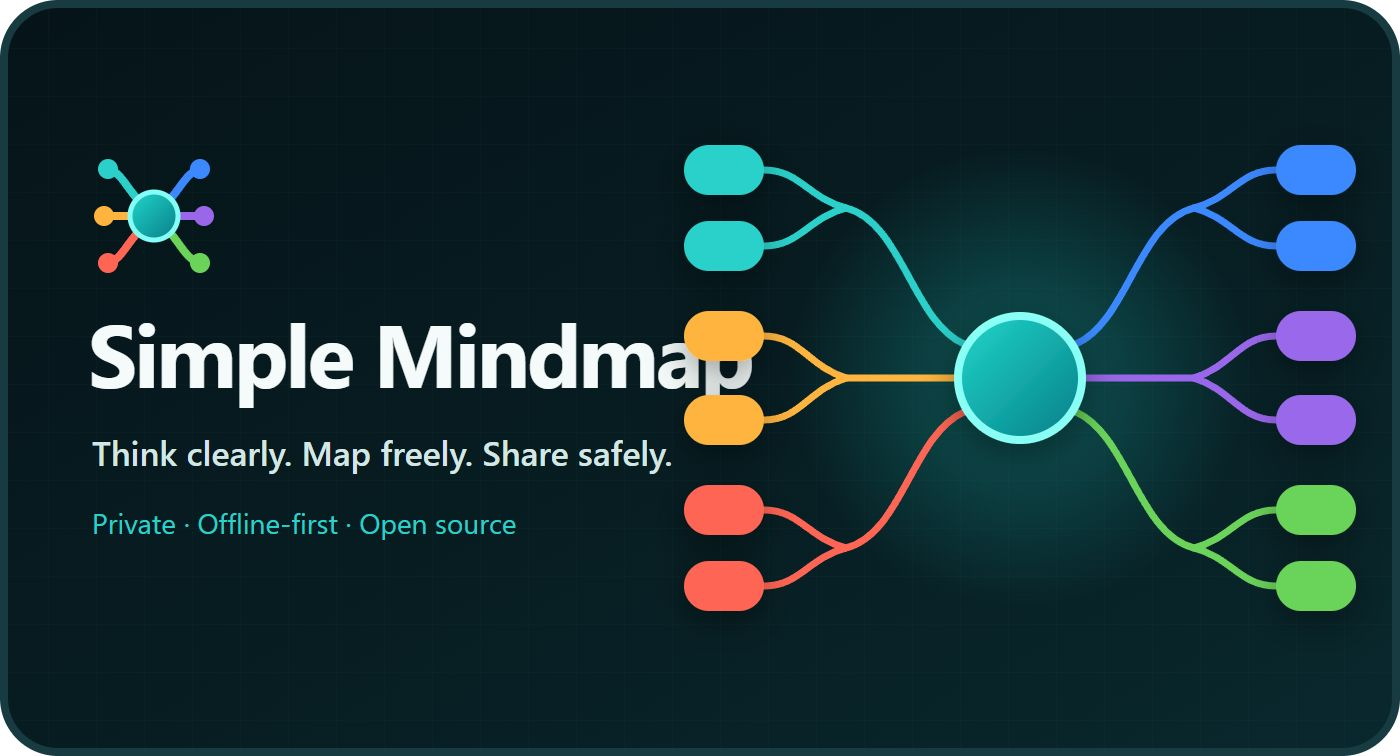
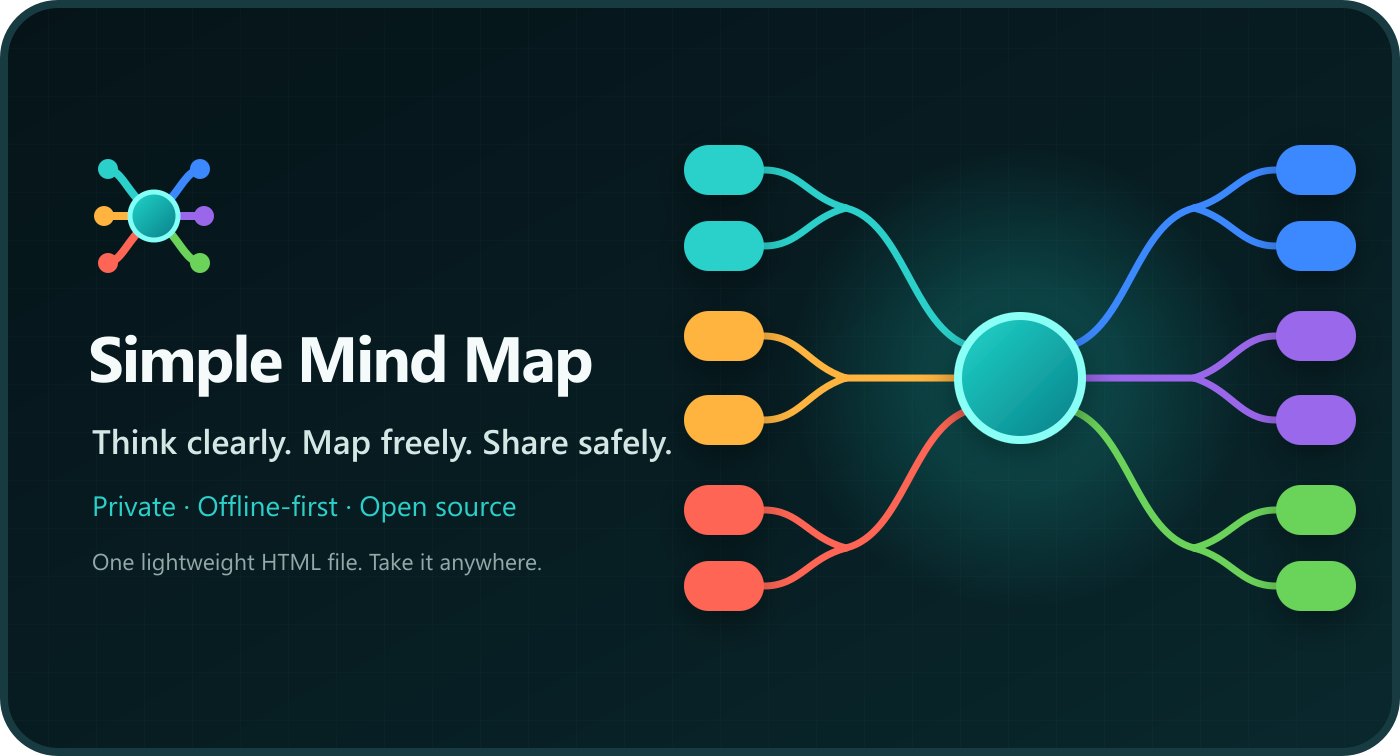
Refresh cover branding and portable tagline (#14)
Update the public cover, remove visible author branding outside the app title, and emphasise the lightweight single-file HTML experience.

diff --git a/launch.html b/launch.html
@@ -551,7 +551,7 @@
   <footer>
     <div class="wrap footer-inner">
       <a class="brand" href="./launch.html"><img class="brand-logo" src="./assets/simplemindmap-mark.svg" alt=""><span>Simple Mindmap</span></a>
-      <span>© 2026 Frank Liu. Released under the MIT License.</span>
+      <span>© 2026 Simple Mind Map. Released under the MIT License.</span>
       <div class="footer-links"><a href="https://github.com/thundom/simplemindmap">Source</a><a href="https://github.com/thundom/simplemindmap/releases">Releases</a><a href="./LICENSE">License</a></div>
     </div>
   </footer>

diff --git a/README.md b/README.md
@@ -1,16 +1,17 @@
 <p align="center">
   <a href="https://thundom.github.io/simplemindmap/launch.html">
-    <img src="assets/simplemindmap-home-card.svg" alt="Simple Mindmap — Think clearly. Map freely. Share safely." width="700">
+    <img src="assets/simplemindmap-home-card.svg" alt="Simple Mind Map — Think clearly. Map freely. Share safely." width="700">
   </a>
 </p>
 
-<h1 align="center">Simple Mind Map <sub>by Frank Liu</sub></h1>
+<h1 align="center">Simple Mind Map</h1>
 
 <p align="center"><strong>Think clearly. Map freely. Share safely.</strong></p>
 
 <p align="center">
   A private, offline-first mind map editor for serious knowledge work.<br>
-  One HTML file. No account. No backend. Your information stays under your control.
+  One lightweight HTML file. Take it anywhere. Run it offline.<br>
+  No account. No backend. Your information stays under your control.
 </p>
 
 <p align="center">
@@ -170,4 +171,4 @@ The interface supports English, Simplified Chinese, Traditional Chinese, Vietnam
 
 ## License
 
-Simple Mindmap is created by Frank Liu and released under the [MIT License](LICENSE). Use it, adapt it and build with it while retaining the license notice.
+Simple Mind Map is released under the [MIT License](LICENSE). Use it, adapt it and build with it while retaining the license notice.

diff --git a/LINKEDIN-LAUNCH.md b/LINKEDIN-LAUNCH.md
@@ -2,7 +2,7 @@
 
 I built Simple Mindmap because complex information should not require another cloud account.
 
-Simple Mindmap v1.8 is an open-source, offline-first mind map editor that runs in your browser, as a single HTML file, or as a Windows app.
+Simple Mindmap v1.8 is an open-source, offline-first mind map editor that runs in your browser or travels with you as one lightweight HTML file.
 
 What makes it different:
 
@@ -28,7 +28,7 @@ https://thundom.github.io/simplemindmap/launch.html
 Source and downloads:
 https://github.com/thundom/simplemindmap
 
-Created by Frank Liu and released under the MIT License. Feedback, ideas and contributions are welcome.
+Released under the MIT License. Feedback, ideas and contributions are welcome.
 
 #OpenSource #HRIS #FutureOfWork #Productivity #MindMapping
 
